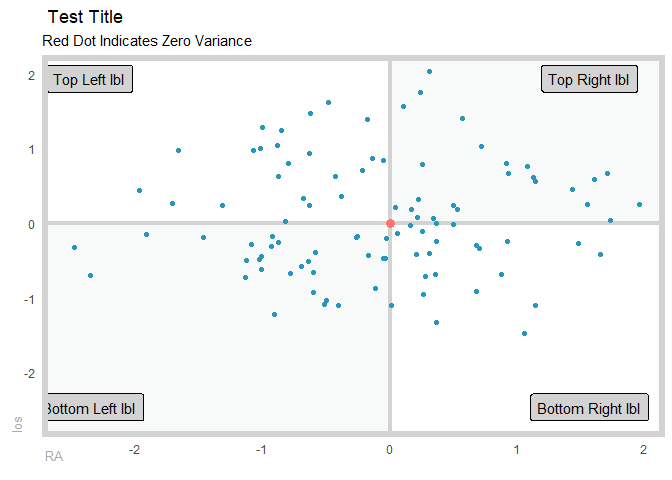
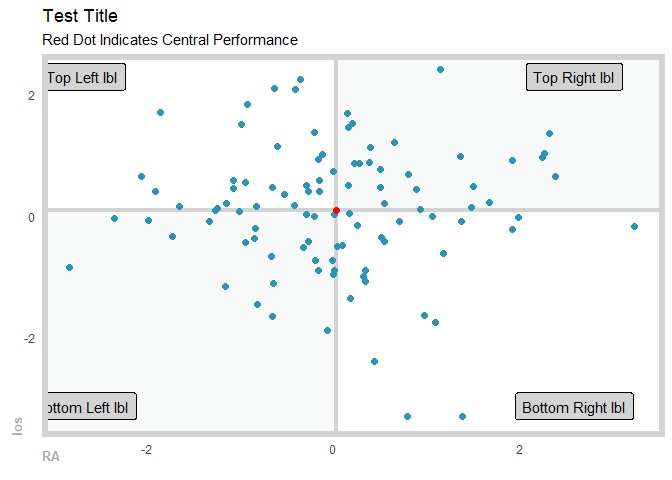
updaets

diff --git a/README.md b/README.md
@@ -15,7 +15,7 @@ Welcome](https://img.shields.io/badge/PRs-welcome-brightgreen.svg?style=flat-squ
 <!-- badges: end -->
 
 The goal of healthyR is to help quickly analyze common data problems in
-the Administrative and Clinical spaces.
+the Administrative and Clincial spaces.
 
 ## Installation
 
@@ -97,11 +97,11 @@ gartner_magic_chart_plt(
   , .y_col = y
   , .y_lab = "los"
   , .x_lab = "RA"
-  , .plt_title = "Test Title"
-  , .tl_lbl = "Top Left lbl"
-  , .tr_lbl = "Top Right lbl"
-  , .bl_lbl = "Bottom Left lbl"
-  , .br_lbl = "Bottom Right lbl"
+  , .plot_title = "Test Title"
+  , .top_left_label = "Top Left lbl"
+  , .top_right_label = "Top Right lbl"
+  , .bottom_left_label = "Bottom Left lbl"
+  , .bottom_right_label = "Bottom Right lbl"
 )
 ```
 

diff --git a/cran-comments.md b/cran-comments.md
@@ -1,11 +1,11 @@
 ## Test environments
-0.2.1 prep for cran
+0.2.2 prep for cran
   
 ## Fix Issue to maintain CRAN
-resubmit for timetk dep issue
+N/A
 
 ## R CMD check results
 
-0 errors | 0 warnings | 1 note
+0 errors | 0 warnings | 2 notes
 
-Minor updates and fix for timetk dependency.
+Minor updates and fixes.
